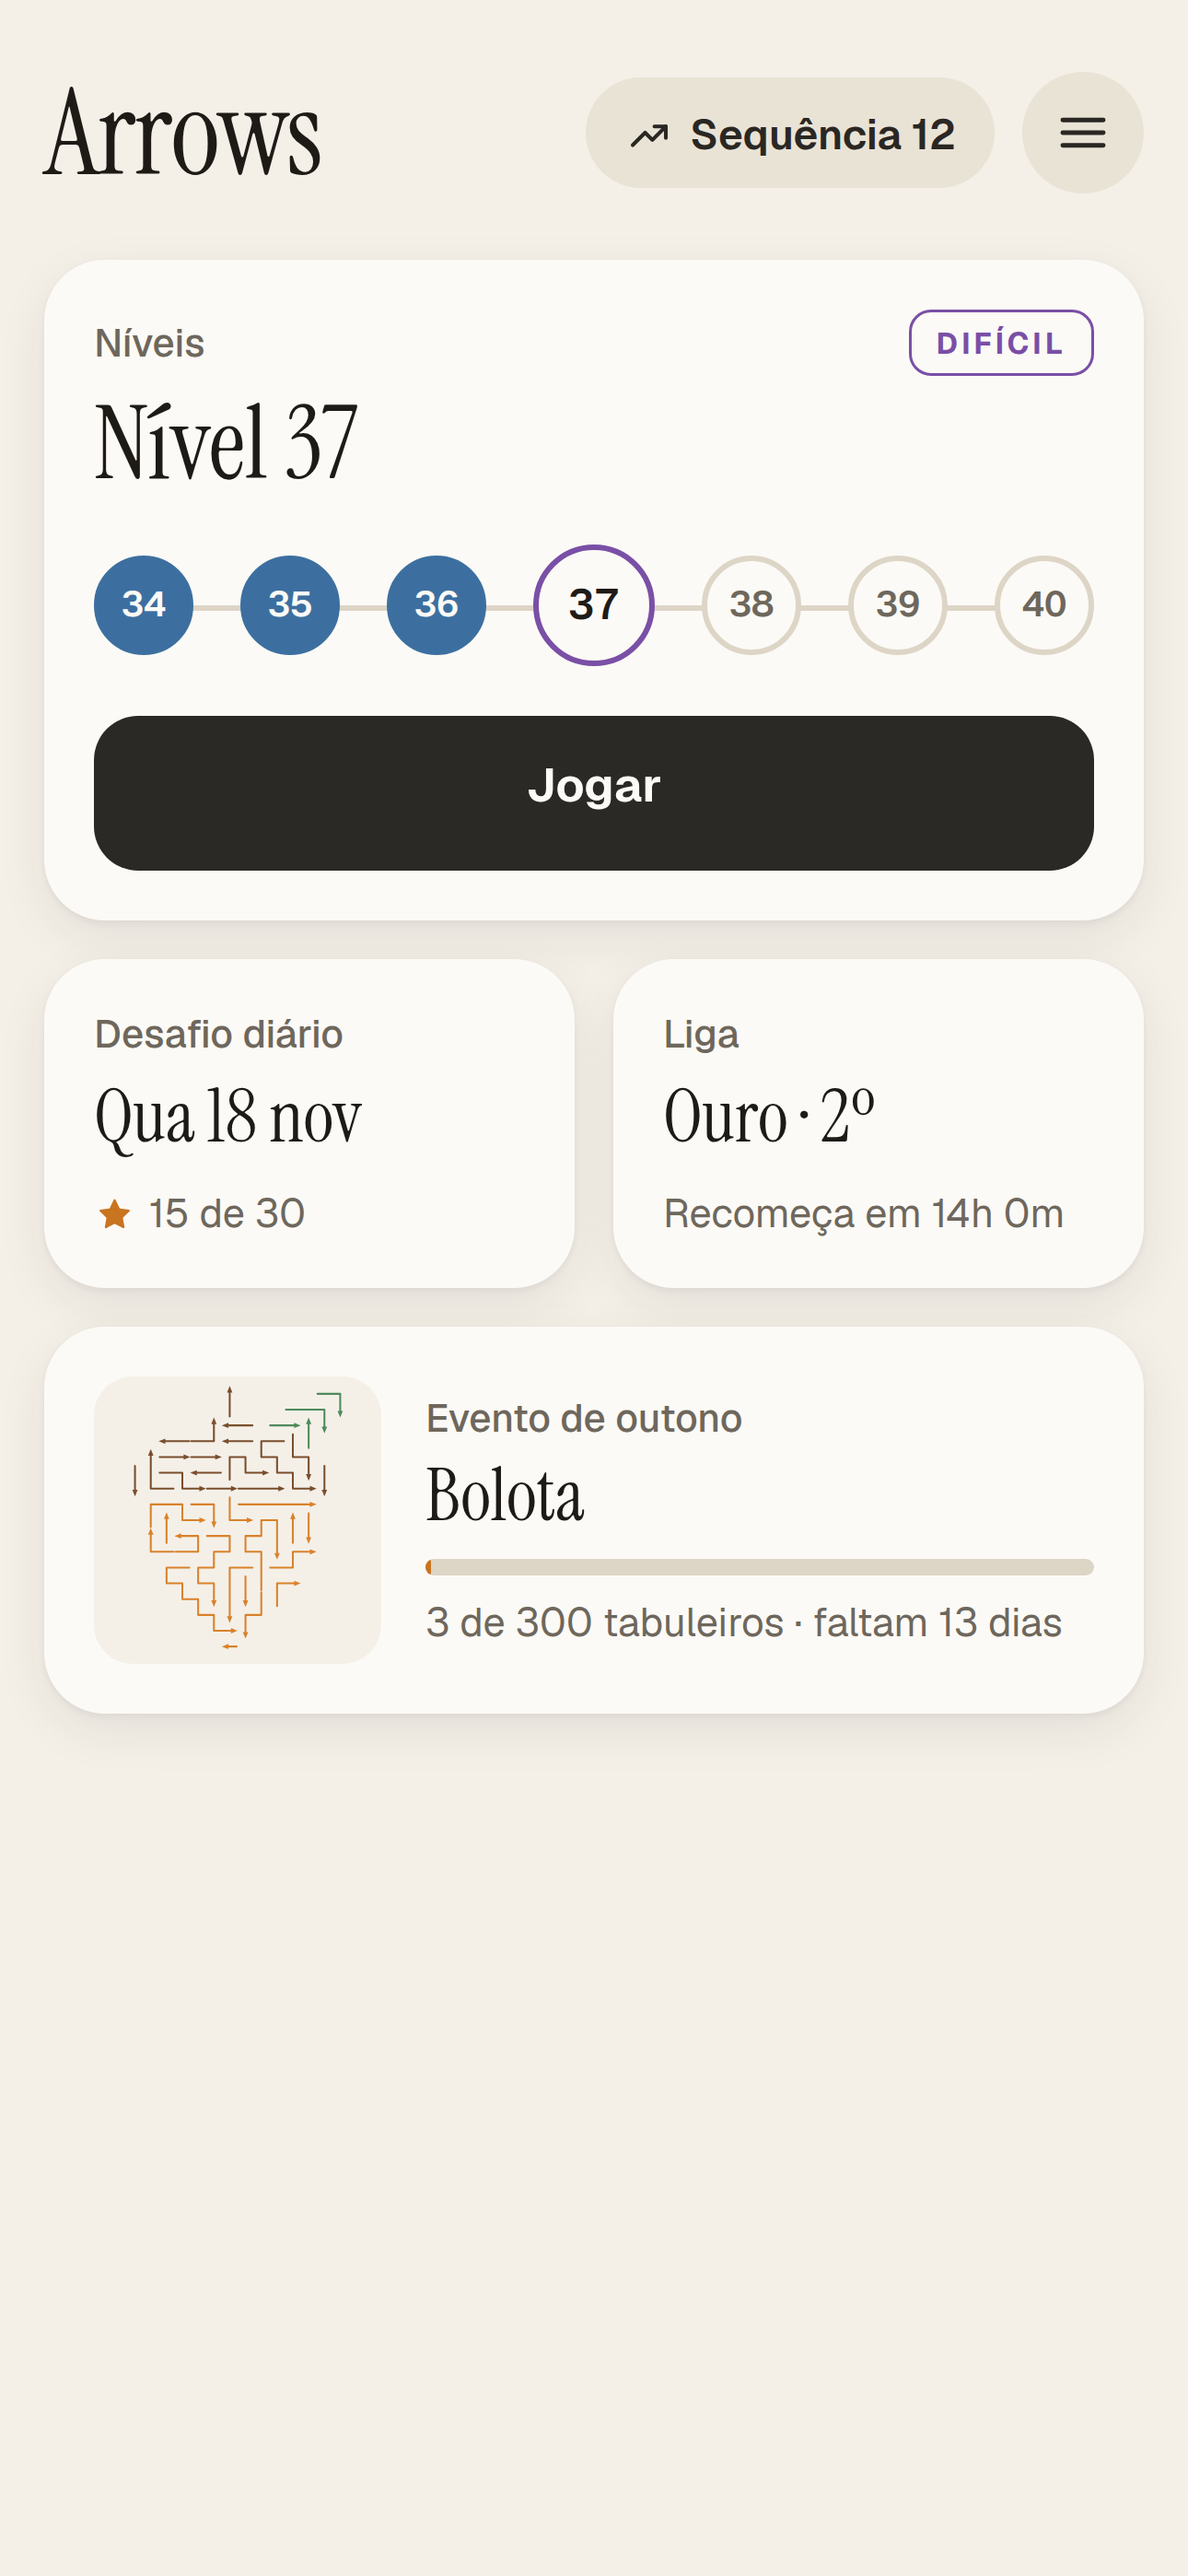
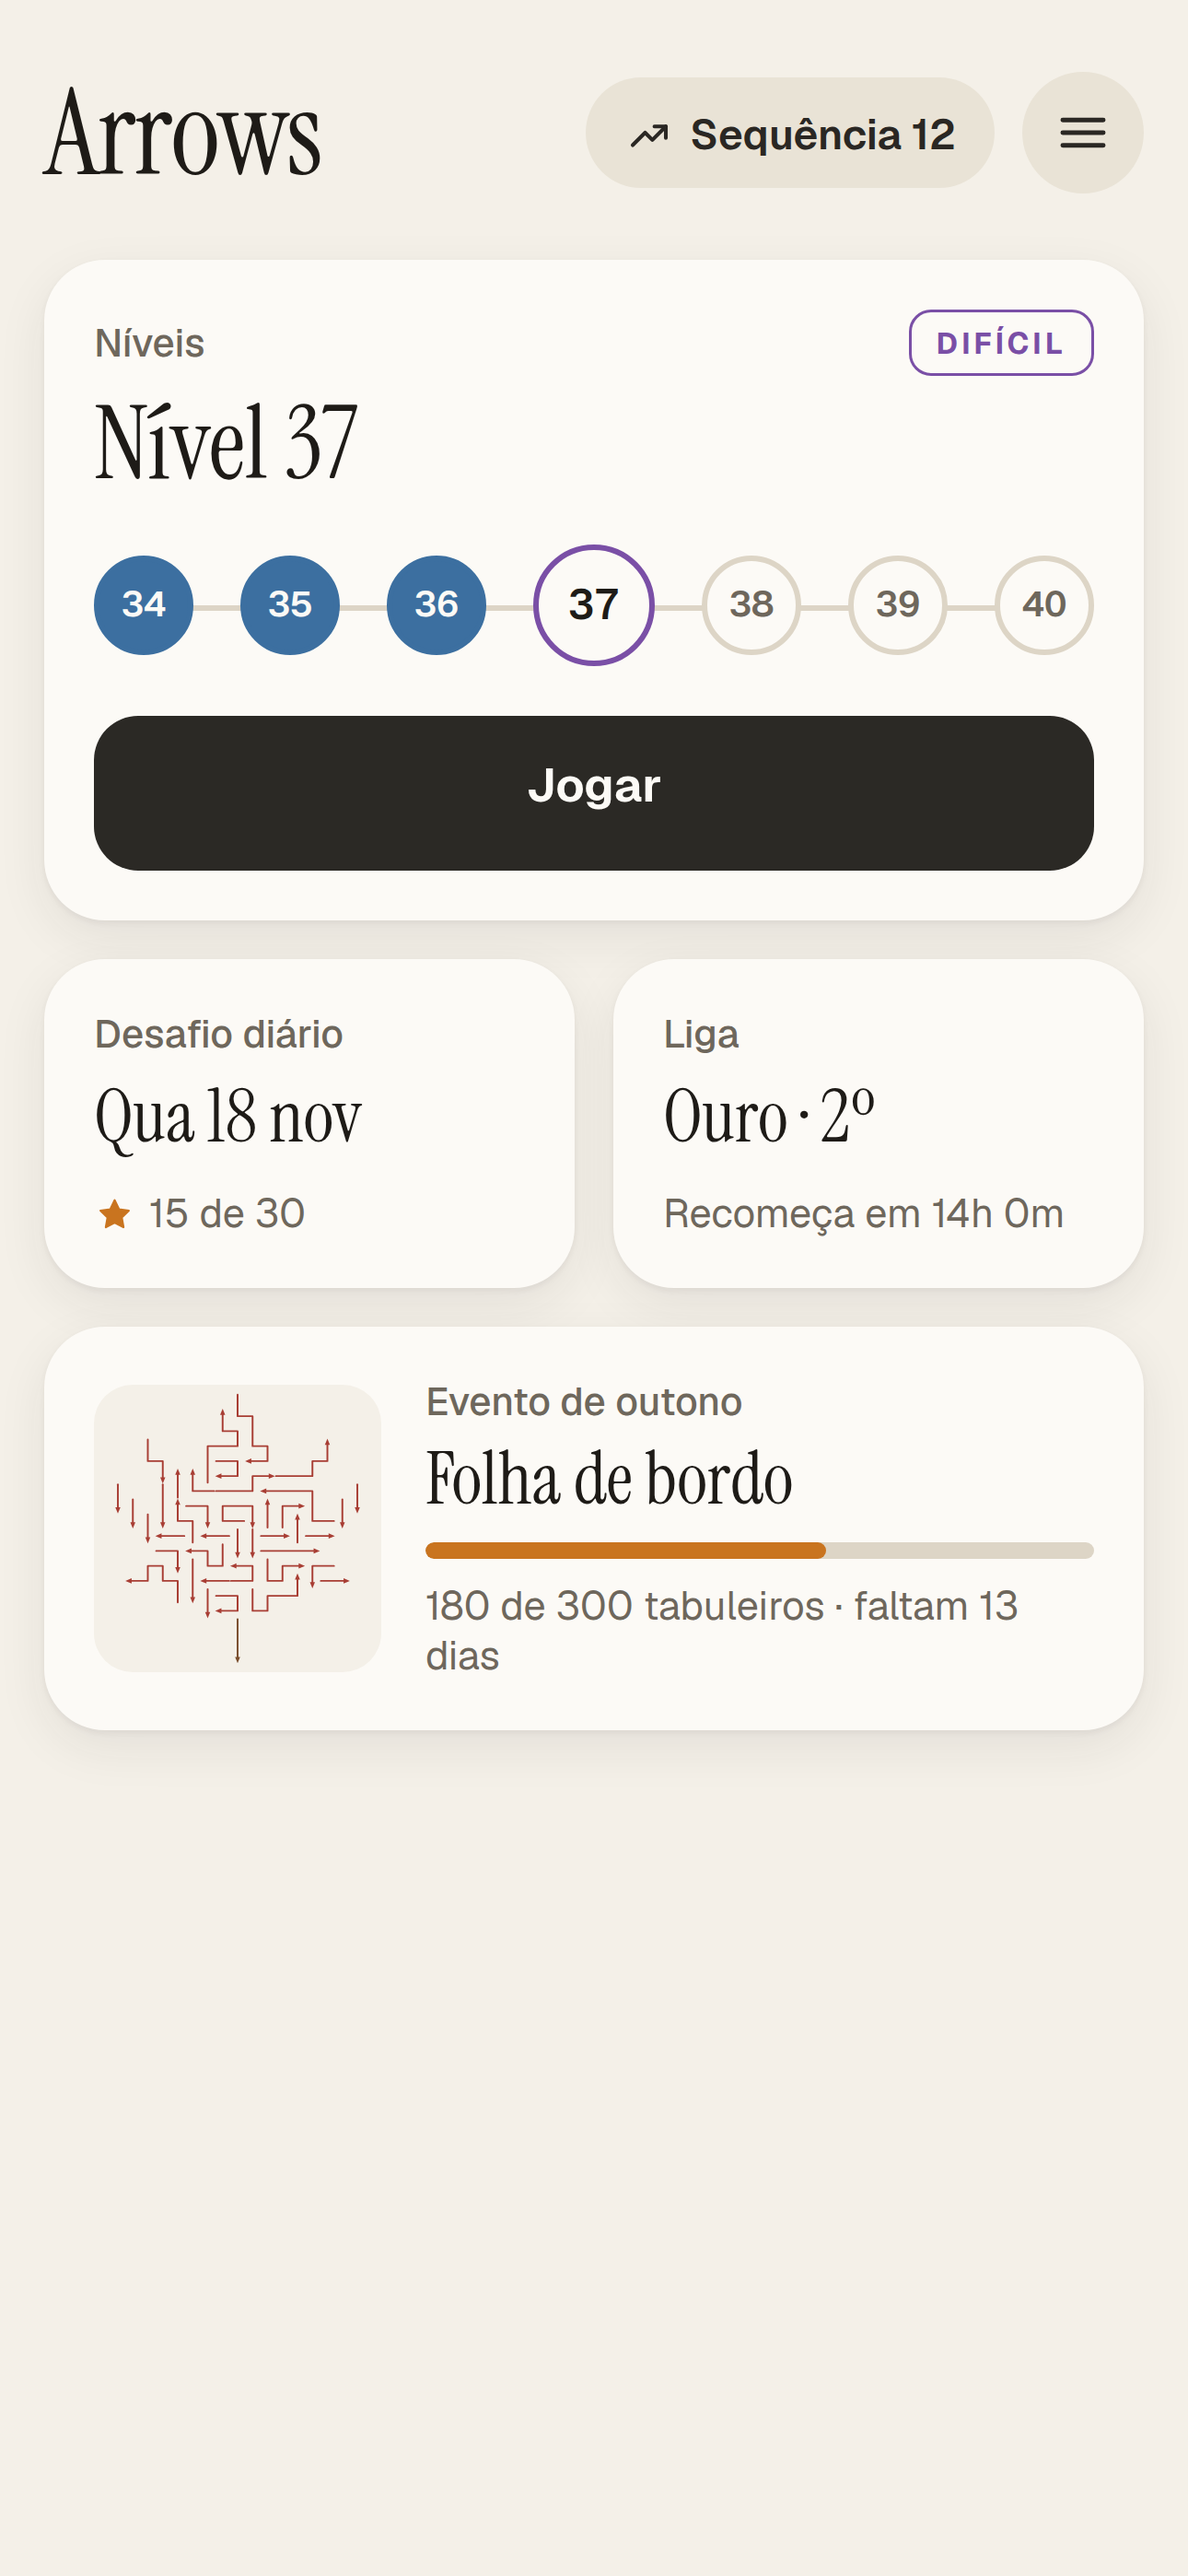
T15: review fixes
- ARCHITECTURE.md: events have EVENT_BOARDS (300) from eventBoards, the
  card's bar is filled by the share won, "Board 2 of 300 done.".
- The bar shows nothing before the first win and at least a dot after
  it (min-width), so one board of 300 shows; tests for 0, 1 and 299.
- EventStore.progress finds the next board as the first gap in the
  sorted list, not with includes in a loop.
- Examples of "3 of 6" in comments and DESIGN.md read "of 300".
- The store screenshots show 180 of 300 boards won and board 181.
- PLAN.md links #19.

Claude-Session: https://claude.ai/code/session_01CKCtUeDSMCkpGtK7miqN3G

Changed region(s): [[0.3411, 0.529, 0.9302, 0.6534], [0.124, 0.529, 0.2791, 0.6534]]

diff --git a/apps/game/src/screens/home.test.ts b/apps/game/src/screens/home.test.ts
@@ -284,6 +284,21 @@ describe('HomeScreen', () => {
     expect(mount({}, null).root.querySelector('.event-card')).toBeNull();
   });
 
+  it('fills the event bar by the share of boards won, from none to almost all', () => {
+    const at = (won: number): HTMLElement | null => {
+      const list = Array.from({ length: won }, (_, i) => i + 1);
+      const progress = { won: list, total: 300, next: won + 1, complete: false };
+      return mount({}, { ...AUTUMN, progress }).root.querySelector<HTMLElement>(
+        '.event-progress-fill',
+      );
+    };
+    // None won: an empty track; one won: a sliver the CSS keeps at least a dot wide.
+    expect(at(0)).toBeNull();
+    expect(at(1)?.style.width).toBe('0.3%');
+    // Never full before the last board.
+    expect(at(299)?.style.width).toBe('99.7%');
+  });
+
   it('leaves the page on destroy', () => {
     const { root, screen } = mount();
     screen.destroy();

diff --git a/apps/game/src/screens/home.ts b/apps/game/src/screens/home.ts
@@ -216,9 +216,14 @@ export class HomeScreen {
           : t('home.eventDaysLeft', { n: daysLeft });
     // One bar filled by the share of boards won: 300 boards are too many for a segment each.
     const share = Math.round((progress.won.length / progress.total) * 1000) / 10;
-    const bar = el(doc, 'span', { class: 'event-progress', 'aria-hidden': 'true' }, [
-      el(doc, 'span', { class: 'event-progress-fill', style: `width: ${share}%` }),
-    ]);
+    const bar = el(
+      doc,
+      'span',
+      { class: 'event-progress', 'aria-hidden': 'true' },
+      progress.won.length === 0
+        ? []
+        : [el(doc, 'span', { class: 'event-progress-fill', style: `width: ${share}%` })],
+    );
     const title = progress.complete
       ? el(doc, 'span', { class: 'card-title small badge-earned' }, [
           iconSpan(doc, theme.icons.badge, 'icon'),

diff --git a/apps/game/store/screenshots.spec.ts b/apps/game/store/screenshots.spec.ts
@@ -52,7 +52,10 @@ async function seed(page: Page): Promise<void> {
     );
     localStorage.setItem(
       'arrows.events',
-      JSON.stringify({ version: 1, events: { 'autumn-2026': [1, 2, 3] } }),
+      JSON.stringify({
+        version: 1,
+        events: { 'autumn-2026': Array.from({ length: 180 }, (_, i) => i + 1) },
+      }),
     );
   }, daysWon());
 }
@@ -127,7 +130,7 @@ for (const { locale, folder } of LANGUAGES) {
       await shoot(page, folder, '4-league');
 
       // 5. An event board drawn as a picture.
-      await page.goto('./?event=autumn-2026&board=4');
+      await page.goto('./?event=autumn-2026&board=181');
       await expect(page.locator('[data-arrow]').first()).toBeVisible();
       await shoot(page, folder, '5-event');
 

diff --git a/apps/game/src/persistence/events.ts b/apps/game/src/persistence/events.ts
@@ -66,13 +66,10 @@ export class EventStore {
   progress(event: GameEvent): EventProgress {
     const total = event.boards.length;
     const won = (this.slot.read().events[event.id] ?? []).filter((n) => n <= total);
-    let next: number | null = null;
-    for (let n = 1; n <= total; n++) {
-      if (!won.includes(n)) {
-        next = n;
-        break;
-      }
-    }
+    // Sorted and once each (parseEventResults), so the first gap is the next board.
+    const gap = won.findIndex((n, i) => n !== i + 1);
+    const first = gap === -1 ? won.length + 1 : gap + 1;
+    const next = first <= total ? first : null;
     return { won, total, next, complete: won.length === total };
   }
 

diff --git a/apps/game/src/styles.css b/apps/game/src/styles.css
@@ -1057,7 +1057,10 @@ button.text-button {
   color: var(--color-hint);
 }
 
-/* One segment per board, filled when won. The text beside it says the same. */
+/*
+ * One track filled by the share of boards won, at least a dot once one is. The
+ * text beside it says the same.
+ */
 .event-progress {
   display: block;
   height: 6px;
@@ -1069,6 +1072,7 @@ button.text-button {
 
 .event-progress-fill {
   display: block;
+  min-width: 6px;
   height: 100%;
   border-radius: 3px;
   background: var(--color-hint);

diff --git a/apps/game/src/events/catalog.ts b/apps/game/src/events/catalog.ts
@@ -13,7 +13,7 @@ export interface EventBoard {
 export interface GameEvent {
   readonly id: string;
   readonly name: StringKey;
-  /** A short name for the line under a board's title: "Autumn · 3 of 6". */
+  /** A short name for the line under a board's title: "Autumn · 3 of 300". */
   readonly short: StringKey;
   readonly badge: StringKey;
   /** First and last day, local dates, both included. */

diff --git a/docs/ARCHITECTURE.md b/docs/ARCHITECTURE.md
@@ -229,16 +229,17 @@ provider can replace the simulated one behind `LeagueProvider` when real players
 ### Events
 
 An event (`events/catalog.ts`) runs from a first to a last local day and lists its boards in
-order, each a drawing at a tier with its own seed (`generateBoard` with the id
+order: `EVENT_BOARDS` (300) of them from `eventBoards`, its drawings in turn and board n at the
+tier of level 10 + n, each a drawing at a tier with its own seed (`generateBoard` with the id
 `event:<event>:<n>`, the `bounds` ray rule). `EventStore` keeps the board numbers won per event
 under `arrows.events`. `App` opens an event board only while the event runs, and only up to the
-next board not won: an address naming a board further on opens the next one, and one outside
-the event's days opens the home screen. A board's first win adds the line "Board 2 of 6 done."
-and, on the last, the badge; "Next board" leads on while the event runs. Event boards earn
-league points with the event bonus. A win counts for the event, and earns the bonus, only while
-the event runs at the moment of the win: a board opened on the last day and won after midnight
-is scored as a plain board. The home screen shows the running event, or the one that
-ended last: a thumbnail of the next board, a segment per board, and the days left or the end.
+next board not won: an address naming a board further on opens the next one, and one outside the
+event's days opens the home screen. A board's first win adds the line "Board 2 of 300 done." and,
+on the last, the badge; "Next board" leads on while the event runs. Event boards earn league
+points with the event bonus. A win counts for the event, and earns the bonus, only while the event
+runs at the moment of the win: a board opened on the last day and won after midnight is scored as
+a plain board. The home screen shows the running event, or the one that ended last: a thumbnail of
+the next board, a bar filled by the share of boards won, and the days left or the end.
 
 ### Ads and the score screen
 

diff --git a/docs/DESIGN.md b/docs/DESIGN.md
@@ -123,9 +123,9 @@ time. A lost chance differs from an intact one by shape as well as colour.
 - Primary button "Next level" (or "Play again" off the level path), text button "Home".
 - As built in T7: a full screen over the board, on `background`, in a column 480 px wide at
   most. The tier line is "{title} · {line under the title}", so a daily reads "DAILY · OCT 12,
-  2026 · MEDIUM" and an event board "MAPLE LEAF · AUTUMN · 3 OF 6". The line under "Solved" holds
+  2026 · MEDIUM" and an event board "MAPLE LEAF · AUTUMN · 3 OF 300". The line under "Solved" holds
   what the win did: the streak, a daily's star and trophy ("A star for Mon 12 Oct."), an event's
-  board and badge ("Board 3 of 6 done."); a replay has none. Next to the time, "best 01:31" on a
+  board and badge ("Board 3 of 300 done."); a replay has none. Next to the time, "best 01:31" on a
   replay or "new best". The league line reads "Already counted in today’s league." when the
   board earned its points earlier that day. The primary button reads "Next board" on an event
   while boards are left; a daily's text button is "Calendar". Below 640 px tall the spacing

diff --git a/docs/PLAN.md b/docs/PLAN.md
@@ -281,7 +281,7 @@ API within the budget in the product document, Android, iPad.
 | T12  | done  | [#17](https://github.com/jonathascosta/Arrows/pull/17) |
 | T13  | done  | [#18](https://github.com/jonathascosta/Arrows/pull/18) |
 | T14  | open  |                                                        |
-| T15  | done  | this pull request                                      |
+| T15  | done  | [#19](https://github.com/jonathascosta/Arrows/pull/19) |
 | T16  | open  |                                                        |
 
 T8 is built and its macOS build job is green; its other two criteria, a TestFlight build on an
